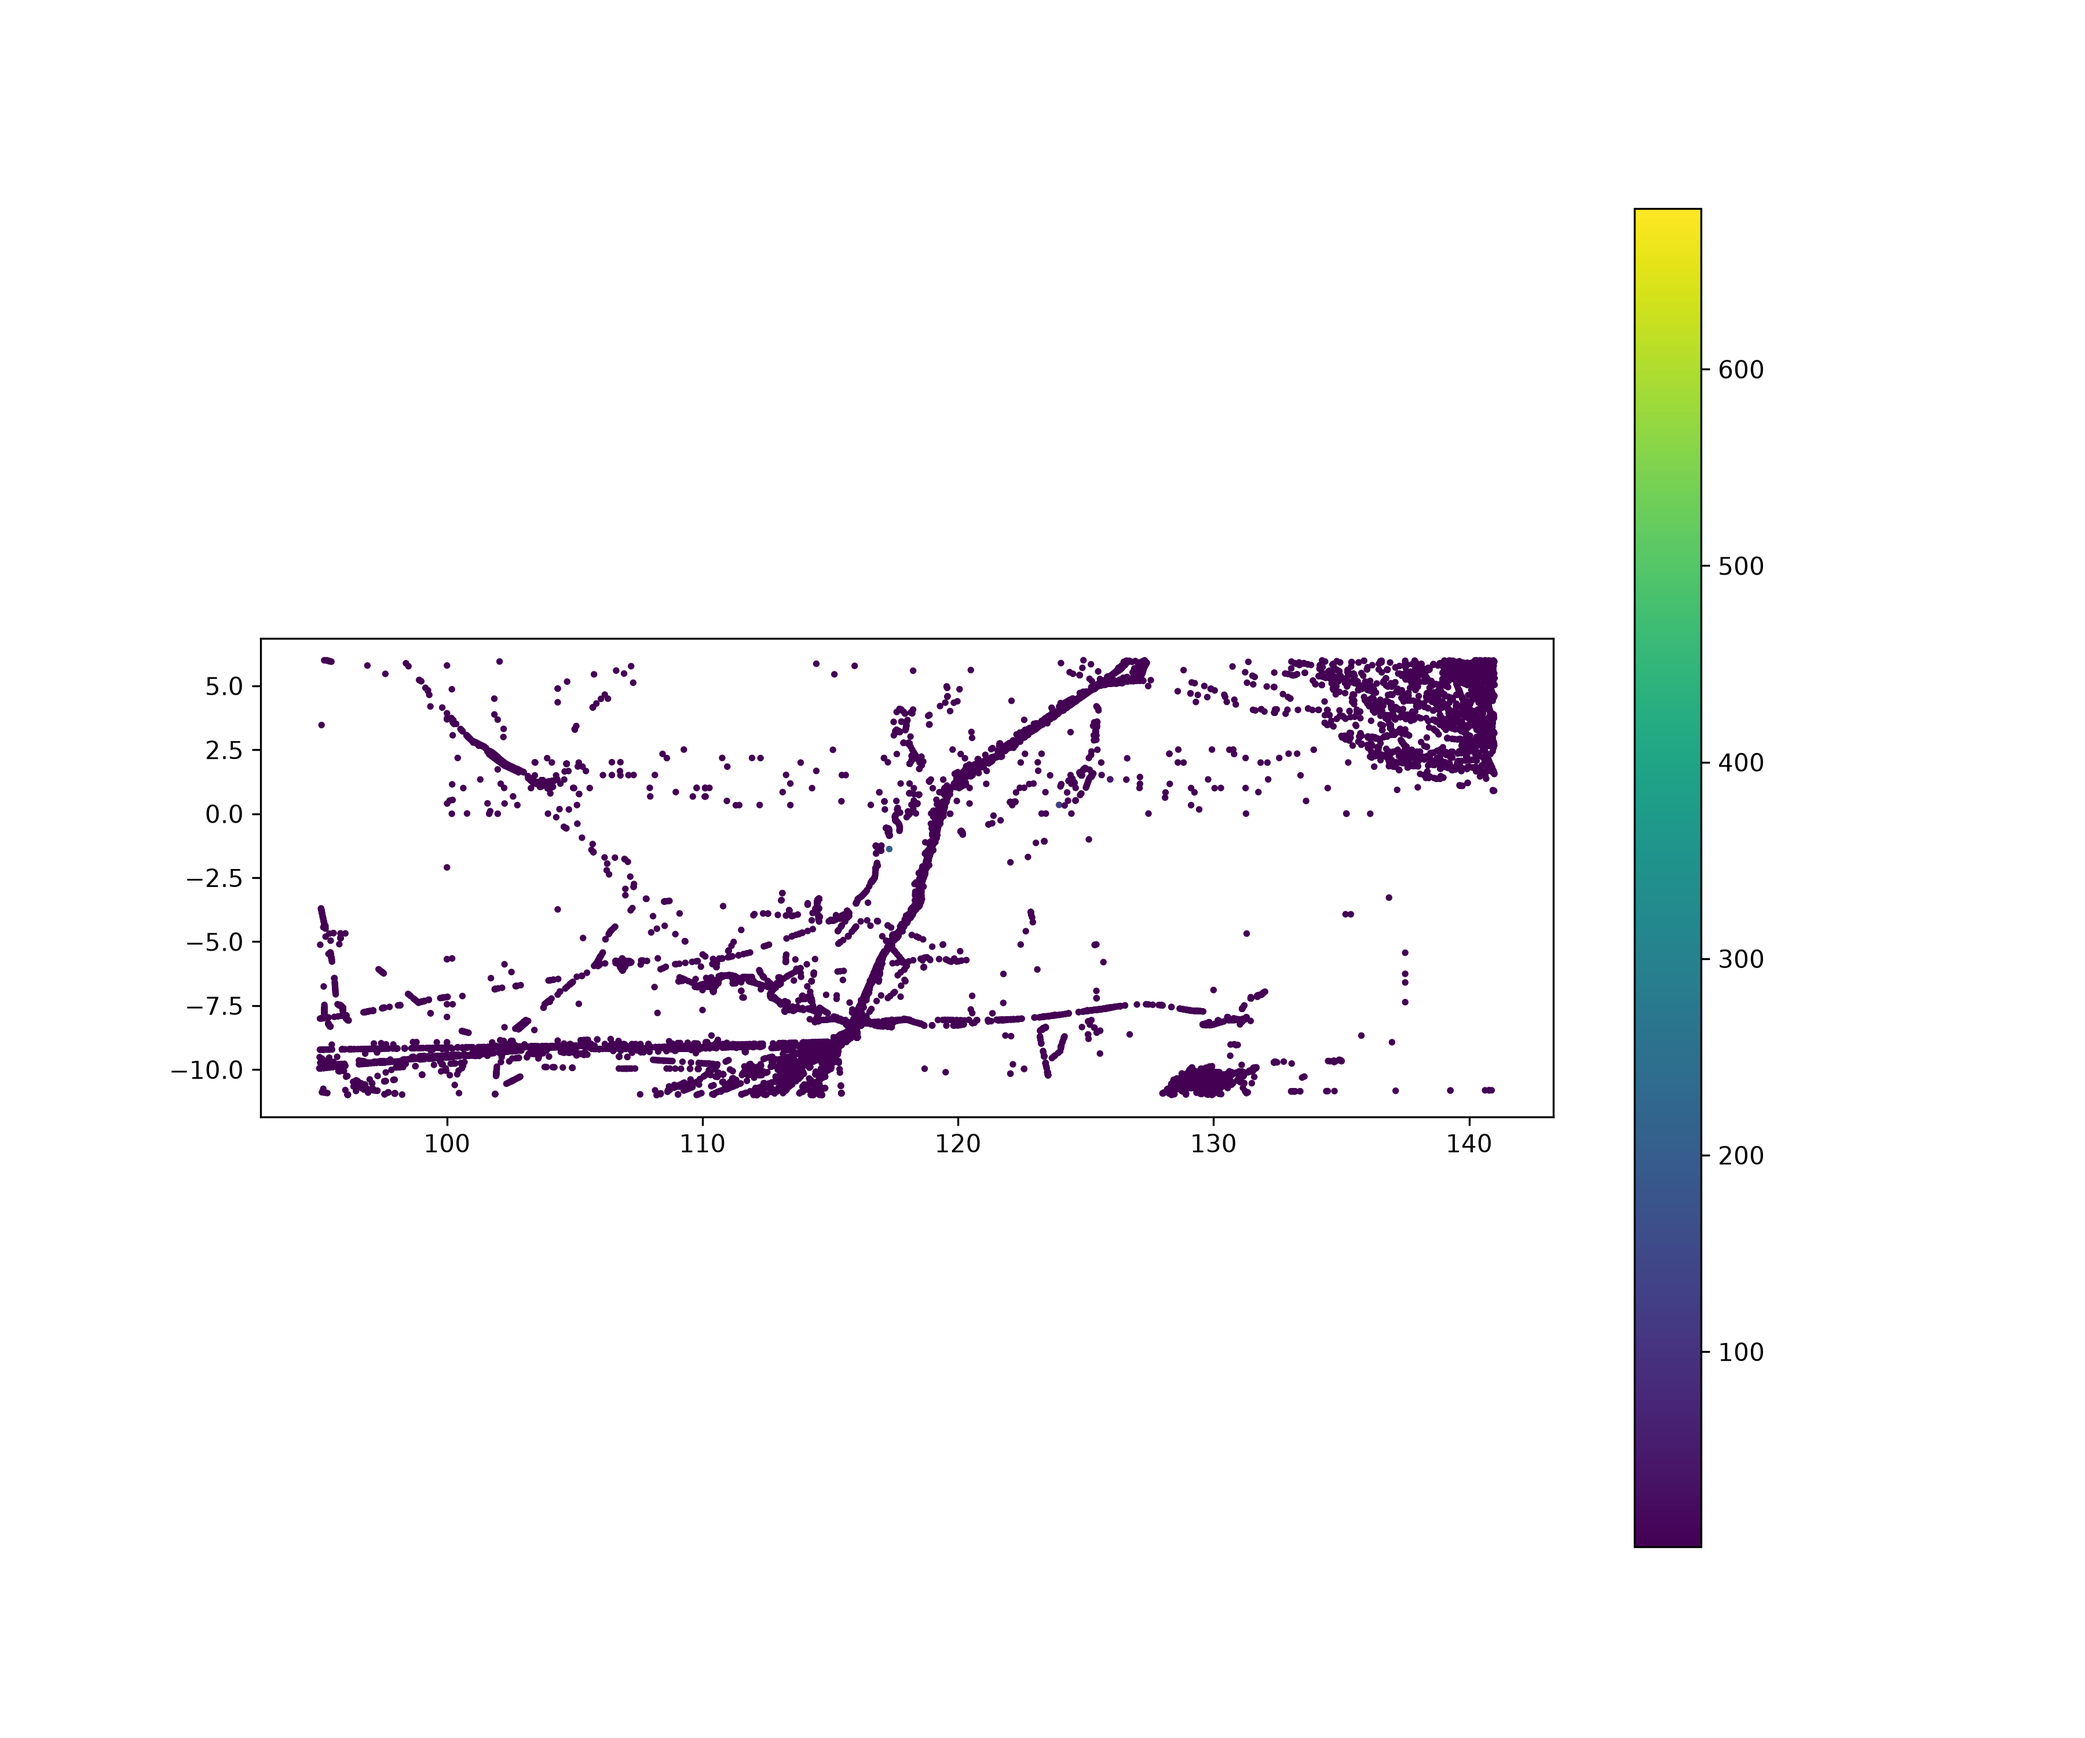
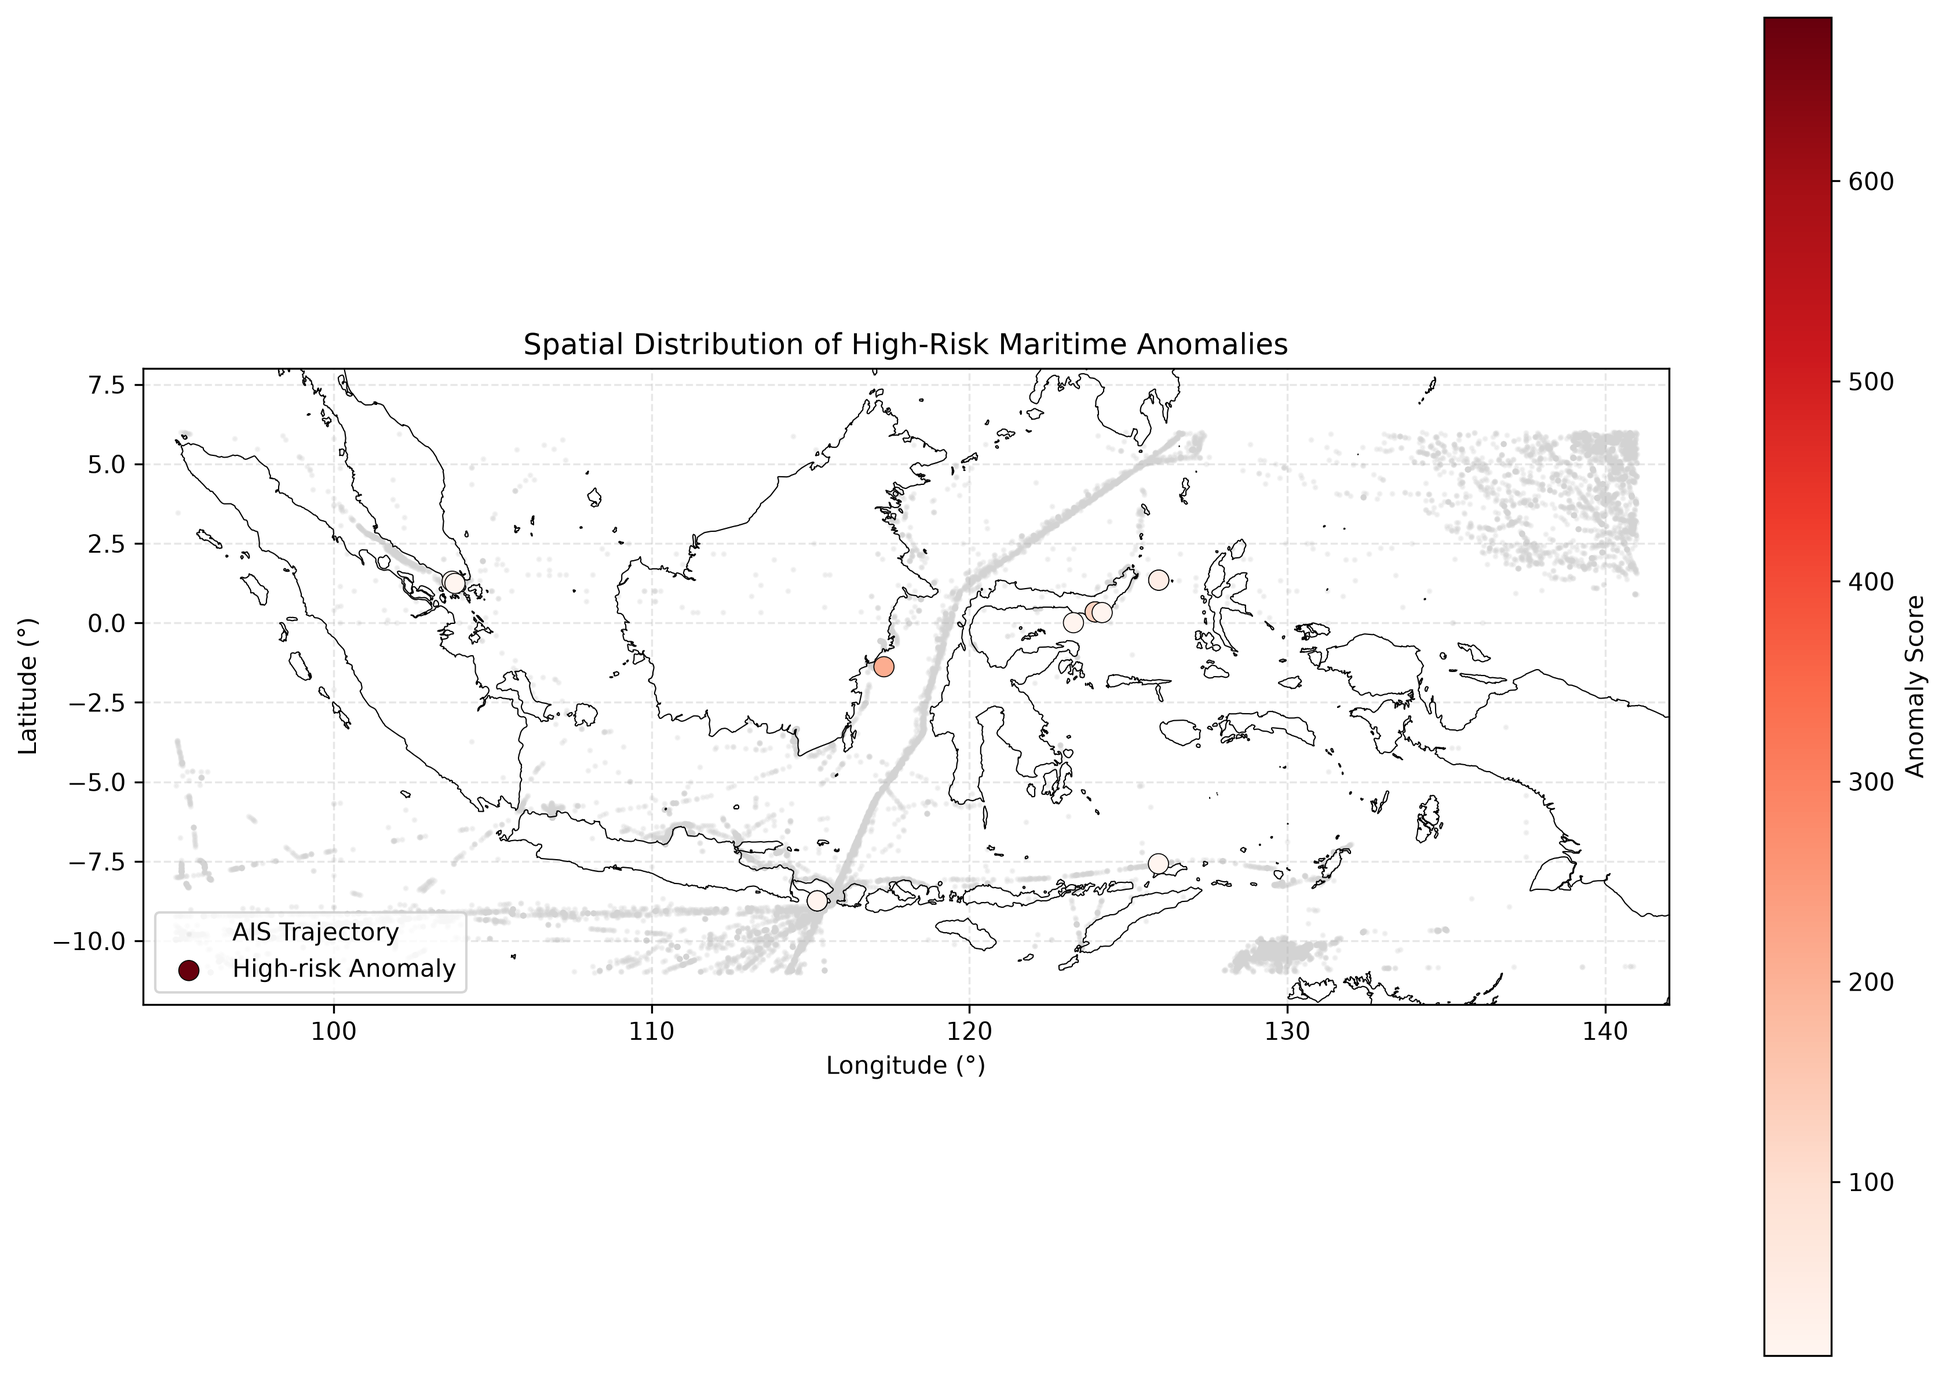
Modified plot_map.py and anomaly_map.png v1.1

diff --git a/scripts/plot_map.py b/scripts/plot_map.py
@@ -1,36 +1,154 @@
 from pathlib import Path
+import sys
 
-import geopandas as gpd
 import matplotlib.pyplot as plt
+import geopandas as gpd
 import pandas as pd
 
 ROOT = Path(__file__).resolve().parents[1]
 
+# ==========================================
+# LOAD DATA
+# ==========================================
+
+print("Loading dataset...")
+
 df = pd.read_parquet(
-    ROOT/"results"/"ais_scored.parquet"
+    ROOT / "results" / "ais_scored.parquet"
 )
 
-gdf = gpd.GeoDataFrame(
-    df,
-    geometry=gpd.points_from_xy(
-        df.lon,
-        df.lat
-    ),
-    crs="EPSG:4326"
+coast = gpd.read_file(
+    ROOT / "data" / "raw" / "Coastline" / "ne_10m_coastline.shp"
 )
 
-fig, ax = plt.subplots(figsize=(12,10))
+# ==========================================
+# HOTSPOT
+# ==========================================
 
-gdf.plot(
+hotspot = df[
+    df["risk_level"].isin(
+        [
+            "High",
+            "Extreme",
+        ]
+    )
+]
+
+print()
+
+print("Hotspot :", len(hotspot))
+
+# ==========================================
+# FIGURE
+# ==========================================
+
+fig, ax = plt.subplots(
+    figsize=(12, 8)
+)
+
+# ==========================================
+# INDONESIA COASTLINE
+# ==========================================
+
+coast.plot(
     ax=ax,
-    column="anomaly_score",
-    markersize=3,
-    legend=True,
+    color="black",
+    linewidth=0.5,
 )
+
+# ==========================================
+# ALL AIS POINT
+# ==========================================
+
+ax.scatter(
+    df["lon"],
+    df["lat"],
+    s=2,
+    color="lightgray",
+    alpha=0.25,
+    label="AIS Trajectory",
+)
+
+# ==========================================
+# HOTSPOT
+# ==========================================
+
+scatter = ax.scatter(
+    hotspot["lon"],
+    hotspot["lat"],
+    c=hotspot["anomaly_score"],
+    cmap="Reds",
+    s=70,
+    edgecolors="black",
+    linewidths=0.4,
+    label="High-risk Anomaly",
+    zorder=5,
+)
+
+# ==========================================
+# COLORBAR
+# ==========================================
+
+cbar = plt.colorbar(
+    scatter,
+    ax=ax,
+)
+
+cbar.set_label(
+    "Anomaly Score"
+)
+
+# ==========================================
+# MAP LIMIT
+# ==========================================
+
+ax.set_xlim(94, 142)
+ax.set_ylim(-12, 8)
+
+# ==========================================
+# GRID
+# ==========================================
+
+ax.grid(
+    alpha=0.3,
+    linestyle="--",
+)
+
+# ==========================================
+# LABEL
+# ==========================================
+
+ax.set_xlabel(
+    "Longitude (°)"
+)
+
+ax.set_ylabel(
+    "Latitude (°)"
+)
+
+ax.set_title(
+    "Spatial Distribution of High-Risk Maritime Anomalies"
+)
+
+ax.legend(
+    loc="lower left"
+)
+
+plt.tight_layout()
+
+# ==========================================
+# SAVE
+# ==========================================
+
+OUT = ROOT / "results" / "anomaly_map.png"
 
 plt.savefig(
-    ROOT/"results"/"anomaly_map.png",
-    dpi=300
+    OUT,
+    dpi=300,
+    bbox_inches="tight",
 )
 
-print("Saved")
+plt.close()
+
+print()
+print("Saved:", OUT)
